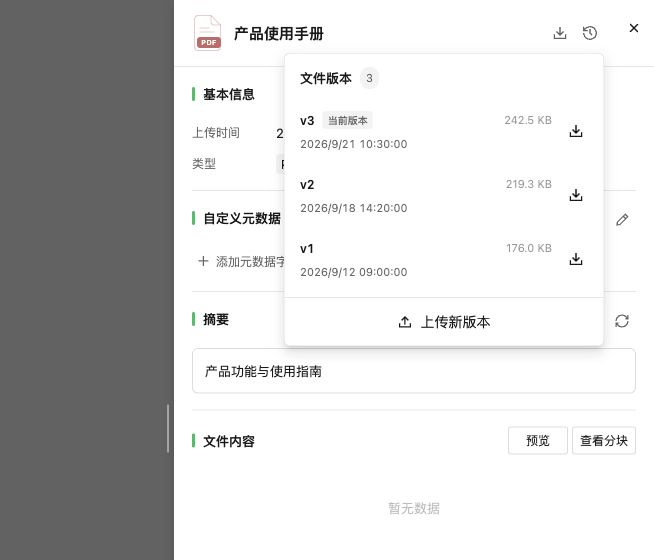
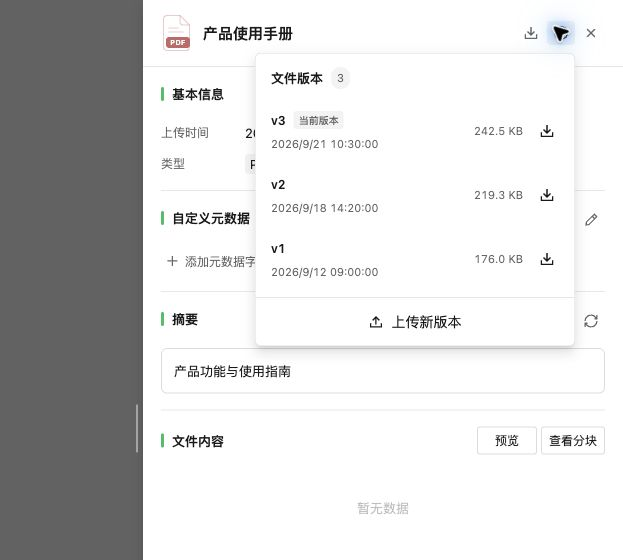
fix(knowledge): align version actions and add menu upload entry

diff --git a/frontend/src/views/knowledge/components/KnowledgeFileVersionsPanel.test.ts b/frontend/src/views/knowledge/components/KnowledgeFileVersionsPanel.test.ts
@@ -47,7 +47,7 @@ const version = (number: number, knowledgeId = 'doc', current = true) => ({
 const response = (number: number, knowledgeId = 'doc', total = 1) => ({ success: true, data: { items: [version(number, knowledgeId)], total } })
 
 async function fixture(options: {
-  canUpload?: boolean; canDownload?: boolean; status?: string;
+  canUpload?: boolean; canDownload?: boolean; status?: string; initialFile?: File;
   list?: (...args: any[]) => Promise<any>; upload?: (...args: any[]) => Promise<any>;
 } = {}) {
   const calls = { list: [] as any[][], upload: [] as any[][], download: [] as any[][], uploaded: [] as string[], warnings: [] as string[] }
@@ -66,10 +66,11 @@ async function fixture(options: {
     }
     throw new Error('Unexpected import: ' + name)
   } })
-  const props = vue.reactive({ visible: true, knowledge: { id: 'doc', file_name: 'document.pdf', parse_status: options.status || 'completed' }, canUpload: options.canUpload ?? true, canDownload: options.canDownload ?? true })
+  const props = vue.reactive({ visible: true, knowledge: { id: 'doc', file_name: 'document.pdf', parse_status: options.status || 'completed' }, canUpload: options.canUpload ?? true, canDownload: options.canDownload ?? true, initialFile: options.initialFile })
   const root = node('root')
   const app = renderer.createApp({ setup: () => () => vue.h(exports.default!, { ...props,
     onUploaded: (id: string) => calls.uploaded.push(id),
+    onFileConsumed: () => { props.initialFile = undefined },
     'onUpdate:visible': (visible: boolean) => { props.visible = visible },
   }) })
   for (const [name, type] of [['t-icon', 'icon'], ['t-button', 'button'], ['t-tag', 'tag'], ['t-loading', 'loading'], ['t-pagination', 'pagination']]) {
@@ -164,4 +165,67 @@ test('empty uploads are rejected before enabling confirmation', async t => {
   assert.deepEqual(f.calls.warnings, ['knowledgeBase.fileVersions.invalidSize'])
   assert.equal(all(f.root, el => el.type === 'button' && textOf(el).trim() === 'knowledgeBase.fileVersions.confirmUpload').length, 0)
   assert.equal(f.calls.upload.length, 0)
+})
+
+
+test('a file selected from the card menu is confirmed once and is not restored when history reopens', async t => {
+  const file = { name: 'menu-selection.pdf', size: 512 } as File
+  const f = await fixture({ initialFile: file }); t.after(f.close)
+  assert.ok(textOf(f.root).includes(file.name))
+  assert.equal(f.props.initialFile, undefined)
+  assert.equal(f.calls.upload.length, 0)
+  await f.fire(f.uploadButton())
+  assert.deepEqual(f.calls.upload, [['doc', file, 3]])
+  f.props.visible = false; await f.settle()
+  f.props.visible = true; await f.settle()
+  assert.equal(textOf(f.root).includes(file.name), false)
+})
+
+test('menu-selected files cannot bypass the processing guard', async t => {
+  const f = await fixture({ status: 'processing', initialFile: { name: 'menu.pdf', size: 512 } as File }); t.after(f.close)
+  assert.equal(textOf(f.root).includes('menu.pdf'), false)
+  assert.equal(f.props.initialFile, undefined)
+  assert.equal(f.calls.upload.length, 0)
+})
+
+async function menuFixture(canMutateKnowledge: boolean, canDownload: boolean, type = 'file', parse_status = 'completed') {
+  const { descriptor } = parse(readFileSync(new URL('./DocumentActionMenu.vue', import.meta.url), 'utf8'))
+  const code = ts.transpileModule(compileScript(descriptor, { id: 'menu-test', inlineTemplate: true }).content, {
+    compilerOptions: { module: ts.ModuleKind.CommonJS, target: ts.ScriptTarget.ES2022 },
+  }).outputText
+  const exports: { default?: vue.Component } = {}
+  runInNewContext(code, { exports, require: (name: string) => { assert.equal(name, 'vue'); return vue } })
+  const root = node('root')
+  let uploads = 0
+  const app = renderer.createApp({ setup: () => () => vue.h(exports.default!, {
+    item: { id: 'doc', type, parse_status }, canMutateKnowledge, canDownload, traceVisible: false,
+    onUploadVersion: () => uploads++,
+  }) })
+  app.config.globalProperties.$t = translate
+  for (const name of ['t-icon', 't-popconfirm']) app.component(name, { setup: (_props: any, { slots }: any) => () => vue.h('span', {}, slots.default?.()) })
+  app.mount(root); await vue.nextTick()
+  return { root, uploads: () => uploads, close: () => app.unmount() }
+}
+
+test('upload menu entry requires file type, edit permission and original download permission', async () => {
+  for (const [edit, download, type, expected] of [
+    [true, true, 'file', 1], [false, true, 'file', 0], [true, false, 'file', 0], [true, true, 'manual', 0],
+  ] as const) {
+    const f = await menuFixture(edit, download, type)
+    try {
+      const entries = all(f.root, el => hasClass(el, 'doc-action-menu-item') && textOf(el).trim() === 'knowledgeBase.fileVersions.upload')
+      assert.equal(entries.length, expected)
+      if (entries[0]) { entries[0].props.onClick({ stopPropagation() {} }); assert.equal(f.uploads(), 1) }
+    } finally { f.close() }
+  }
+})
+
+test('processing disables the upload menu entry', async () => {
+  const f = await menuFixture(true, true, 'file', 'processing')
+  try {
+    const entry = all(f.root, el => hasClass(el, 'doc-action-menu-item') && textOf(el).trim() === 'knowledgeBase.fileVersions.upload')[0]!
+    assert.equal(entry.props['aria-disabled'], true)
+    entry.props.onClick({ stopPropagation() {} })
+    assert.equal(f.uploads(), 0)
+  } finally { f.close() }
 })

diff --git a/frontend/src/views/knowledge/KnowledgeBase.vue b/frontend/src/views/knowledge/KnowledgeBase.vue
@@ -1366,10 +1366,34 @@ const updateStatus = (analyzeList: KnowledgeCard[]) => {
 // 恢复文档处理状态（用于刷新后恢复）
 
 const closeDoc = () => {
+  versionUploadFile.value = null;
   isCardDetails.value = false;
 };
 const versionHistoryRequested = ref(false);
+const versionUploadFile = ref<File | null>(null);
+const versionUploadInput = ref<HTMLInputElement>();
+let versionUploadTarget: { item: KnowledgeCard; kbId: string } | null = null;
+const chooseFileVersion = (item: KnowledgeCard) => {
+  if (item.type !== 'file' || !canEdit.value || !canDownloadKnowledge.value) return;
+  if (isParseInFlight(item.parse_status)) {
+    MessagePlugin.info(t('knowledgeBase.fileVersions.processing'));
+    return;
+  }
+  versionUploadTarget = { item, kbId: kbId.value };
+  versionUploadInput.value?.click();
+};
+const onVersionFileSelected = (event: Event) => {
+  const input = event.target as HTMLInputElement;
+  const file = input.files?.[0];
+  const target = versionUploadTarget;
+  input.value = '';
+  versionUploadTarget = null;
+  if (!file || !target || target.kbId !== kbId.value || !canEdit.value || !canDownloadKnowledge.value) return;
+  openCardDetails(target.item, true);
+  versionUploadFile.value = file;
+};
 const openCardDetails = (item: KnowledgeCard, showVersions = false) => {
+  versionUploadFile.value = null;
   versionHistoryRequested.value = showVersions;
   isCardDetails.value = true;
   getCardDetails(item);
@@ -1377,6 +1401,7 @@ const openCardDetails = (item: KnowledgeCard, showVersions = false) => {
 
 // Open source document preview from WikiBrowser
 const openSourceDoc = (knowledgeId: string) => {
+  versionUploadFile.value = null;
   versionHistoryRequested.value = false;
   isCardDetails.value = true;
   getCardDetails({ id: knowledgeId });
@@ -2080,10 +2105,11 @@ const onFileVersionUploaded = async (knowledgeId: string) => {
 
 // Bridge card-view actions back to existing per-card handlers.
 const handleCardAction = (
-  action: 'versions' | 'download' | 'edit' | 'reparse' | 'cancel-parse' | 'move' | 'move-folder' | 'delete' | 'view-trace' | 'batch-manage',
+  action: 'upload-version' | 'versions' | 'download' | 'edit' | 'reparse' | 'cancel-parse' | 'move' | 'move-folder' | 'delete' | 'view-trace' | 'batch-manage',
   item: KnowledgeCard,
 ) => {
   const idx = (cardList.value || []).findIndex((i: KnowledgeCard) => i.id === item.id);
+  if (action === 'upload-version') return chooseFileVersion(item);
   if (action === 'versions' && item.type === 'file') { openCardDetails(item, true); return; }
   if (action === 'download') return downloadKnowledge(item);
   if (action === 'edit') return handleManualEdit(idx, item);
@@ -2100,10 +2126,11 @@ const handleCardAction = (
 
 // Bridge list-view actions back to existing per-card handlers.
 const handleListAction = (
-  action: 'versions' | 'download' | 'edit' | 'reparse' | 'cancel-parse' | 'move' | 'move-folder' | 'delete' | 'view-trace' | 'batch-manage',
+  action: 'upload-version' | 'versions' | 'download' | 'edit' | 'reparse' | 'cancel-parse' | 'move' | 'move-folder' | 'delete' | 'view-trace' | 'batch-manage',
   item: KnowledgeCard,
 ) => {
   const idx = (cardList.value || []).findIndex((i: KnowledgeCard) => i.id === item.id);
+  if (action === 'upload-version') return chooseFileVersion(item);
   if (action === 'versions' && item.type === 'file') { openCardDetails(item, true); return; }
   if (action === 'download') return downloadKnowledge(item);
   if (action === 'edit') return handleManualEdit(idx, item);
@@ -2475,9 +2502,12 @@ const handleKBEditorSuccess = (kbIdValue: string) => {
         </div>
       </template>
 
+      <input ref="versionUploadInput" type="file" hidden :aria-label="t('knowledgeBase.fileVersions.selectFile')"
+        @change="onVersionFileSelected" />
       <!-- DocContent drawer (shared by documents tab and wiki source refs) -->
       <DocContent ref="docContentRef" :visible="isCardDetails" :details="details" :canEditKB="canEdit"
         :canDownloadKB="canDownloadKnowledge" :kbId="kbId" :showVersionHistory="versionHistoryRequested"
+        :versionUploadFile="versionUploadFile" @versionUploadFileConsumed="versionUploadFile = null"
         @fileVersionUploaded="onFileVersionUploaded"
         @closeDoc="closeDoc" @getDoc="getDoc" @summaryStateChange="syncDocumentSummaryState">
       </DocContent>

diff --git a/frontend/src/views/knowledge/components/KnowledgeFileVersionsPanel.vue b/frontend/src/views/knowledge/components/KnowledgeFileVersionsPanel.vue
@@ -17,9 +17,11 @@ const props = defineProps<{
   knowledge: { id: string; file_name?: string; title?: string; parse_status?: string } | null;
   canUpload: boolean;
   canDownload: boolean;
+  initialFile?: File | null;
 }>();
 const emit = defineEmits<{
   (e: 'uploaded', knowledgeId: string): void;
+  (e: 'file-consumed'): void;
 }>();
 const { t, locale } = useI18n();
 const items = ref<KnowledgeFileVersion[]>([]);
@@ -73,6 +75,12 @@ watch(() => [props.visible, props.knowledge?.id] as const, () => {
   loading.value = false;
   if (fileInput.value) fileInput.value.value = '';
   if (props.visible) void loadPage();
+}, { immediate: true });
+
+watch(() => [props.visible, props.knowledge?.id, props.initialFile], () => {
+  if (!props.visible || !props.knowledge?.id || !props.initialFile) return;
+  acceptFile(props.initialFile);
+  emit('file-consumed');
 }, { immediate: true });
 
 function selectFile(event: Event) {
@@ -160,11 +168,11 @@ const formatDate = (value: string) => new Date(value).toLocaleString(locale.valu
             <div class="version-heading">
               <strong>v{{ version.version }}</strong>
               <span v-if="version.is_current" class="current-label">{{ t('knowledgeBase.fileVersions.current') }}</span>
-              <span class="version-size">{{ formatFileSize(version.file_size) }}</span>
             </div>
             <div class="version-date" :title="version.file_name">{{ formatDate(version.created_at) }}</div>
           </div>
-          <t-button v-if="canDownload" theme="default" variant="text" shape="square" size="small"
+          <span class="version-size">{{ formatFileSize(version.file_size) }}</span>
+          <t-button v-if="canDownload" class="version-download" theme="default" variant="text" shape="square" size="small"
             :title="t('common.download') + ' · v' + version.version"
             :aria-label="t('common.download') + ' · v' + version.version"
             :loading="downloading === version.version" :disabled="downloading !== undefined" @click="download(version)">
@@ -205,13 +213,14 @@ const formatDate = (value: string) => new Date(value).toLocaleString(locale.valu
 .version-count { padding: 0 6px; border-radius: 9px; background: var(--td-bg-color-secondarycontainer); color: var(--td-text-color-secondary); font-size: 11px; }
 .history-loading { min-height: 55px; width: 100%; }
 .version-list { list-style: none; margin: 0; padding: 0 6px 6px; max-height: 320px; overflow-y: auto; }
-.version-row { display: flex; align-items: center; gap: 12px; padding: 10px; border-radius: 5px; }
+.version-row { display: grid; grid-template-columns: minmax(0, 1fr) 64px 24px; align-items: center; column-gap: 12px; padding: 10px; border-radius: 5px; }
 .version-row:hover { background: var(--td-bg-color-container-hover); }
 .version-meta { flex: 1; min-width: 0; }
 .version-heading { display: flex; align-items: center; gap: 8px; font-size: 12px; }
 .version-heading strong { font-weight: 600; font-variant-numeric: tabular-nums; }
 .current-label { font-size: 10px; font-weight: 500; padding: 0 5px; line-height: 18px; border-radius: 3px; color: var(--td-text-color-secondary); background: var(--td-bg-color-secondarycontainer); }
-.version-size { margin-left: auto; font-size: 11px; color: var(--td-text-color-placeholder); }
+.version-size { text-align: right; white-space: nowrap; font-size: 11px; font-variant-numeric: tabular-nums; color: var(--td-text-color-secondary); }
+.version-download { justify-self: end; }
 .version-date { margin-top: 4px; font-size: 11px; line-height: 18px; color: var(--td-text-color-secondary); font-variant-numeric: tabular-nums; }
 .version-footer { padding: 8px; border-top: 1px solid var(--td-component-stroke); }
 .file-input { display: none; }

diff --git a/frontend/src/components/doc-content.vue b/frontend/src/components/doc-content.vue
@@ -240,8 +240,8 @@ mermaid.initialize({
     topPadding: 50
   }
 });
-const props = defineProps(["visible", "details", "knowledgeType", "sourceInfo", "canEditKB", "canDownloadKB", "parse_status", "kbId", "showVersionHistory"]);
-const emit = defineEmits(["closeDoc", "getDoc", "questionDeleted", "summaryStateChange", "fileVersionUploaded"]);
+const props = defineProps(["visible", "details", "knowledgeType", "sourceInfo", "canEditKB", "canDownloadKB", "parse_status", "kbId", "showVersionHistory", "versionUploadFile"]);
+const emit = defineEmits(["closeDoc", "getDoc", "questionDeleted", "summaryStateChange", "fileVersionUploaded", "versionUploadFileConsumed"]);
 
 const versionHistoryVisible = ref(false);
 const versionHistoryPopup = ref();
@@ -1586,7 +1586,7 @@ const handleChunkPageChange = (pageInfo: { current: number }) => {
         <div class="doc-drawer-resize-line" />
       </div>
     </teleport>
-    <t-drawer :visible="visible" :zIndex="2000" :size="`${mainDrawerWidth}px`" attach="body" :closeBtn="true"
+    <t-drawer :visible="visible" :zIndex="2000" :size="`${mainDrawerWidth}px`" attach="body" :closeBtn="false"
       :footer="false" :class="['doc-main-drawer', { 'doc-main-drawer--resizing': mainDrawerResizing }]"
       @close="handleClose" @transitionend="versionHistoryPopup?.update()">
       <template #header>
@@ -1616,6 +1616,7 @@ const handleChunkPageChange = (pageInfo: { current: number }) => {
               <template #content>
                 <KnowledgeFileVersionsPanel :visible="visible && versionHistoryVisible" :knowledge="details"
                   :can-upload="canEditContent && !!canDownloadKB" :can-download="!!canDownloadKB"
+                  :initial-file="versionUploadFile" @file-consumed="emit('versionUploadFileConsumed')"
                   @uploaded="emit('fileVersionUploaded', $event)" />
               </template>
             </t-popup>
@@ -1624,6 +1625,10 @@ const handleChunkPageChange = (pageInfo: { current: number }) => {
               <template #icon>
                 <t-icon name="chart-line" size="16px" />
               </template>
+            </t-button>
+            <t-button class="header-action-btn" size="small" variant="text" shape="square" theme="default"
+              :title="$t('common.close')" :aria-label="$t('common.close')" @click="handleClose">
+              <template #icon><t-icon name="close" size="16px" /></template>
             </t-button>
           </div>
         </div>
@@ -2268,7 +2273,6 @@ const handleChunkPageChange = (pageInfo: { current: number }) => {
   gap: 10px;
   min-width: 0;
   width: 100%;
-  padding-right: 32px;
 }
 
 .doc-drawer-header-icon {

diff --git a/frontend/src/views/knowledge/components/DocumentListView.vue b/frontend/src/views/knowledge/components/DocumentListView.vue
@@ -61,7 +61,7 @@ const emit = defineEmits<{
   (e: 'open', item: KnowledgeItem): void;
   (e: 'toggle-row', id: string, checked: boolean, shiftKey: boolean): void;
   (e: 'toggle-all', checked: boolean): void;
-  (e: 'action', action: 'versions' | 'download' | 'edit' | 'reparse' | 'cancel-parse' | 'move' | 'move-folder' | 'delete' | 'view-trace' | 'batch-manage', item: KnowledgeItem): void;
+  (e: 'action', action: 'upload-version' | 'versions' | 'download' | 'edit' | 'reparse' | 'cancel-parse' | 'move' | 'move-folder' | 'delete' | 'view-trace' | 'batch-manage', item: KnowledgeItem): void;
   (e: 'probe-trace', item: KnowledgeItem): void;
   (e: 'tags-changed', payload?: { deletedTagId?: string }): void;
   (e: 'open-folder', path: string): void;
@@ -225,7 +225,7 @@ const onFolderPicked = (item: KnowledgeItem, path: string) => {
   emit('move-to-folder', item, path);
 };
 
-const handleAction = (action: 'versions' | 'download' | 'edit' | 'reparse' | 'cancel-parse' | 'move' | 'move-folder' | 'delete' | 'view-trace' | 'batch-manage', item: KnowledgeItem) => {
+const handleAction = (action: 'upload-version' | 'versions' | 'download' | 'edit' | 'reparse' | 'cancel-parse' | 'move' | 'move-folder' | 'delete' | 'view-trace' | 'batch-manage', item: KnowledgeItem) => {
   // The folder picker opens inside this same popup, so keep the menu open.
   if (action === 'move-folder') {
     folderPickerItemId.value = item.id;
@@ -361,6 +361,7 @@ const handleAction = (action: 'versions' | 'download' | 'edit' | 'reparse' | 'ca
                   :trace-visible="!!traceVisibleIds[item.id] || (item.parse_status === 'pending' || item.parse_status === 'processing' || item.parse_status === 'finalizing')"
                   @download="handleAction('download', item)"
                   @versions="handleAction('versions', item)"
+                  @upload-version="handleAction('upload-version', item)"
                   @edit="handleAction('edit', item)"
                   @view-trace="handleAction('view-trace', item)"
                   @reparse="handleAction('reparse', item)"

diff --git a/frontend/src/views/knowledge/components/DocumentCardView.vue b/frontend/src/views/knowledge/components/DocumentCardView.vue
@@ -62,7 +62,7 @@ const emit = defineEmits<{
   (e: 'open', item: KnowledgeCard): void;
   (e: 'toggle-checkbox', id: string, checked: boolean, ctx?: { e?: Event }): void;
   (e: 'menu-visible-change', visible: boolean, item: KnowledgeCard): void;
-  (e: 'action', action: 'versions' | 'download' | 'edit' | 'view-trace' | 'reparse' | 'cancel-parse' | 'move' | 'move-folder' | 'batch-manage' | 'delete', item: KnowledgeCard): void;
+  (e: 'action', action: 'upload-version' | 'versions' | 'download' | 'edit' | 'view-trace' | 'reparse' | 'cancel-parse' | 'move' | 'move-folder' | 'batch-manage' | 'delete', item: KnowledgeCard): void;
   (e: 'tags-changed', payload?: { deletedTagId?: string }): void;
   (e: 'open-folder', path: string): void;
   (e: 'move-to-folder', item: KnowledgeCard, folderPath: string): void;
@@ -303,7 +303,7 @@ const editTags = (item: KnowledgeCard) => {
 };
 
 // --- Action handlers ---
-const handleAction = (action: 'versions' | 'download' | 'edit' | 'view-trace' | 'reparse' | 'cancel-parse' | 'move' | 'move-folder' | 'batch-manage' | 'delete', item: KnowledgeCard) => {
+const handleAction = (action: 'upload-version' | 'versions' | 'download' | 'edit' | 'view-trace' | 'reparse' | 'cancel-parse' | 'move' | 'move-folder' | 'batch-manage' | 'delete', item: KnowledgeCard) => {
   // The folder picker opens inside this same popup, so keep the menu open.
   if (action === 'move-folder') {
     folderPickerItemId.value = item.id;
@@ -398,6 +398,7 @@ const handleAction = (action: 'versions' | 'download' | 'edit' | 'view-trace' | 
                   :folders-available="Boolean(folderOptions?.length)"
                   @download="handleAction('download', item)"
                   @versions="handleAction('versions', item)"
+                  @upload-version="handleAction('upload-version', item)"
                   @edit="handleAction('edit', item)"
                   @view-trace="handleAction('view-trace', item)"
                   @reparse="handleAction('reparse', item)"

diff --git a/frontend/src/views/knowledge/components/DocumentActionMenu.vue b/frontend/src/views/knowledge/components/DocumentActionMenu.vue
@@ -21,6 +21,7 @@ const props = defineProps<{
 const emit = defineEmits<{
   (e: 'download'): void;
   (e: 'versions'): void;
+  (e: 'upload-version'): void;
   (e: 'edit'): void;
   (e: 'view-trace'): void;
   (e: 'reparse'): void;
@@ -55,6 +56,14 @@ const fileName = computed(() => props.item.file_name || props.item.title || prop
   <div v-if="item.type === 'file'" class="doc-action-menu-item" @click.stop="emit('versions')">
     <t-icon class="icon" name="history" />
     <span>{{ $t('knowledgeBase.fileVersions.title') }}</span>
+  </div>
+
+  <div v-if="item.type === 'file' && canMutateKnowledge && canDownload" class="doc-action-menu-item"
+    :class="{ disabled: isParseInFlight }" :aria-disabled="isParseInFlight"
+    :title="isParseInFlight ? $t('knowledgeBase.fileVersions.processing') : undefined"
+    @click.stop="!isParseInFlight && emit('upload-version')">
+    <t-icon class="icon" name="upload" />
+    <span>{{ $t('knowledgeBase.fileVersions.upload') }}</span>
   </div>
 
   <!-- 编辑文档 -->
@@ -161,6 +170,13 @@ const fileName = computed(() => props.item.file_name || props.item.title || prop
 
   &:hover .icon {
     color: var(--td-text-color-primary);
+  }
+
+  &.disabled {
+    color: var(--td-text-color-disabled);
+    cursor: not-allowed;
+    background: transparent;
+    .icon { color: inherit; }
   }
 
   &.danger {

diff --git a/website-docs/03-features/02-knowledge-base.md b/website-docs/03-features/02-knowledge-base.md
@@ -36,7 +36,7 @@
 
 ## 文件版本管理
 
-打开文档详情抽屉，点击顶部下载按钮旁的历史图标，即可在小浮层中查看版本号、上传日期、文件大小和下载入口；当前版本会单独标记。文件卡片或列表的「更多 → 文件版本」也可直接打开该浮层。有写权限且符合原文件下载权限的用户，可以在浮层底部点击「上传新版本」，选择文件后确认上传；只读用户仅查看版本信息。
+打开文档详情抽屉，点击顶部下载按钮旁的历史图标，即可在小浮层中查看版本号、上传日期、文件大小和下载入口；当前版本会单独标记。文件卡片或列表的「更多 → 文件版本」也可直接打开该浮层。有写权限且符合原文件下载权限的用户，可以从文件卡片或列表的三点菜单点击「上传新版本」，选择文件后在历史浮层中确认上传，也可使用浮层底部的上传入口；只读用户仅查看版本信息。
 
 新版本保留原知识 ID，文档级引用继续指向同一知识条目，并重新解析文件、更新索引。历史原文件会保留；更新前已有的文件按 v1 展示。与当前版本文件名和内容均相同的上传不会新增版本。文档处于待处理、处理中或收尾阶段时，需等待完成后再上传。
 
